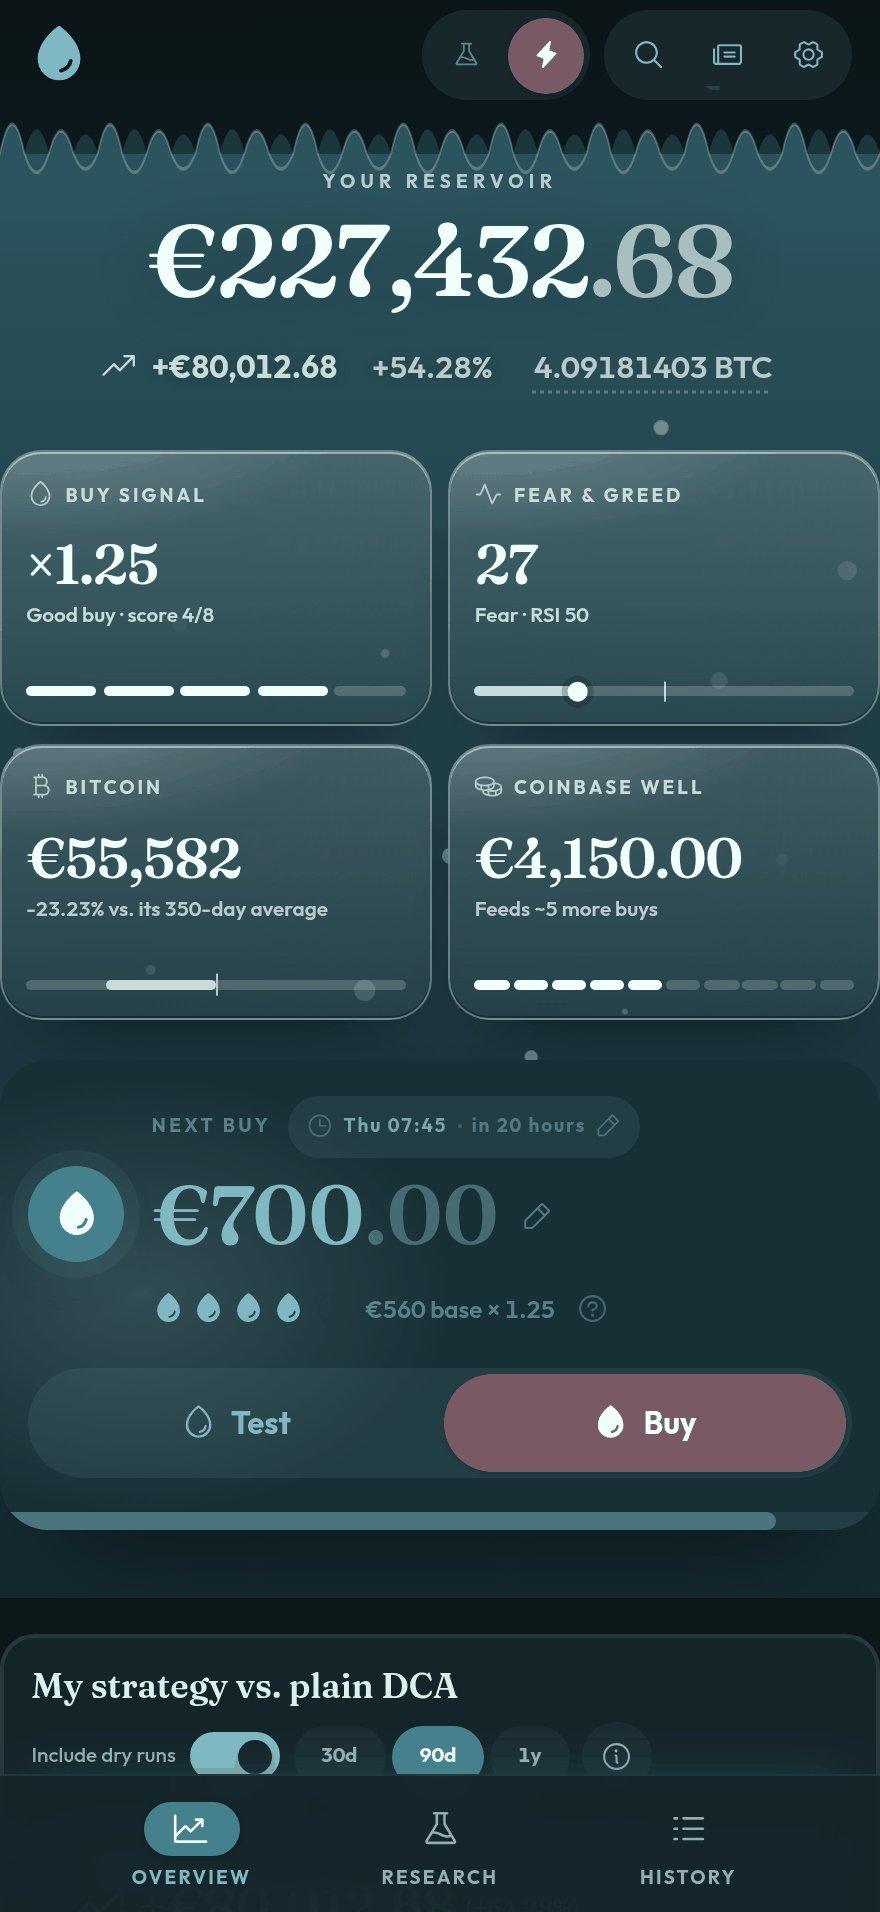
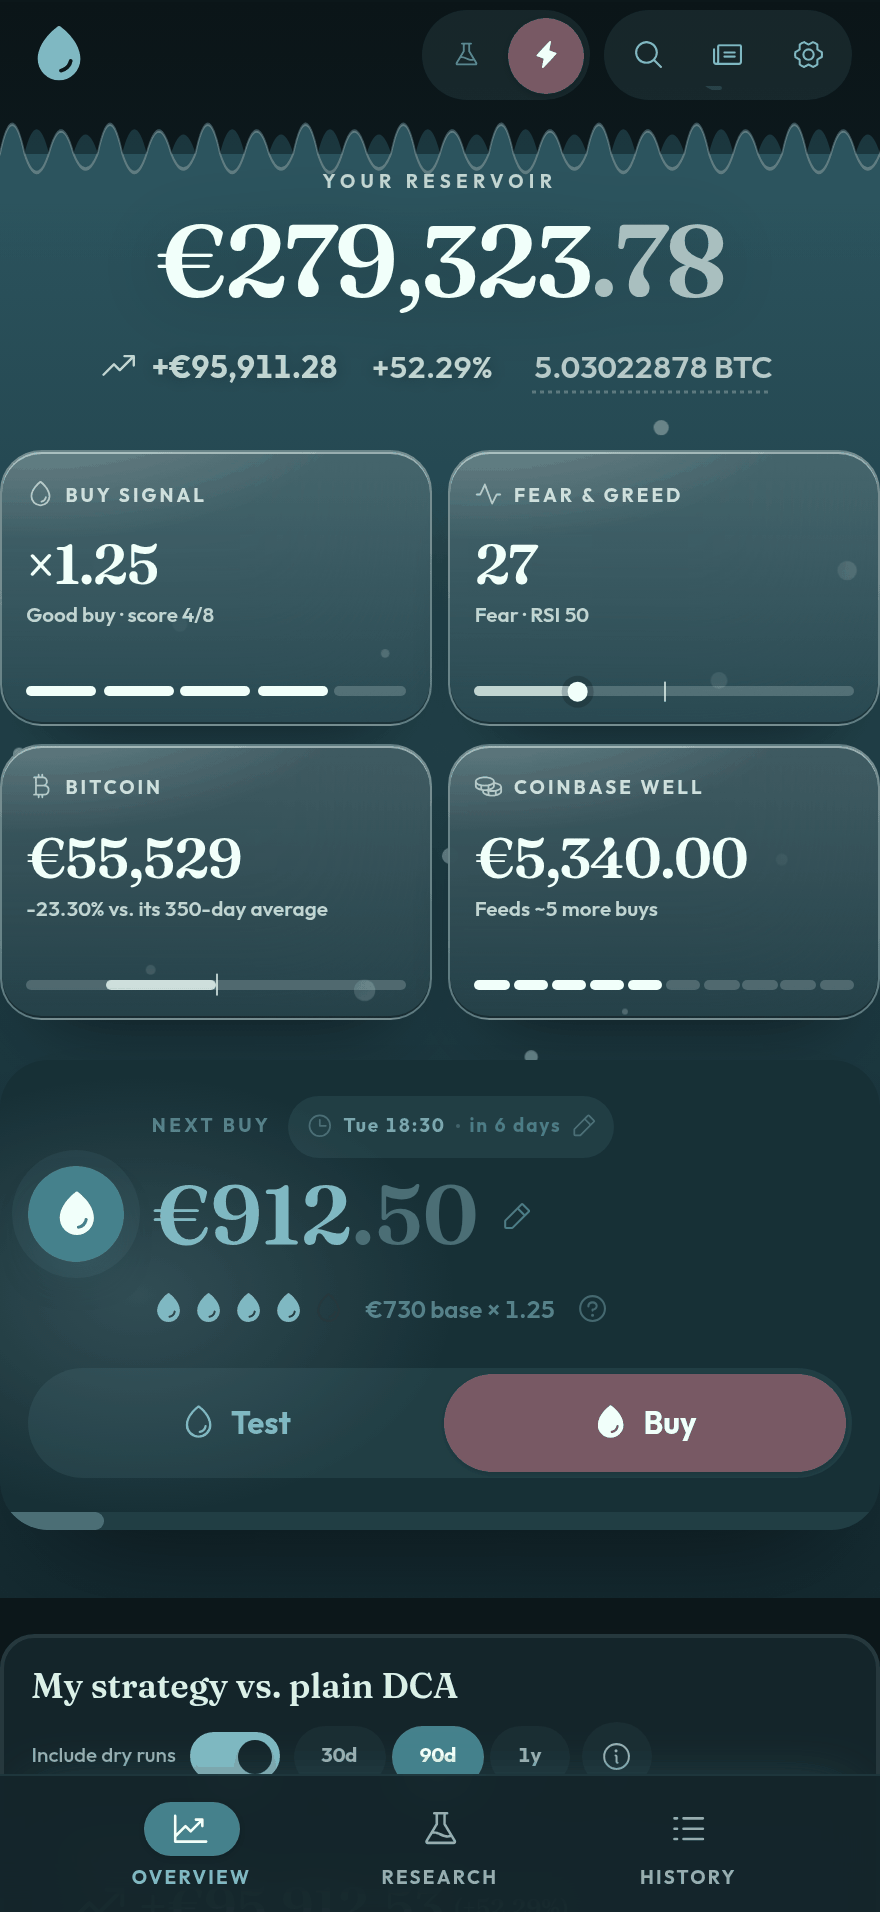
upd: three phones in the readme

diff --git a/frontend/src/version.ts b/frontend/src/version.ts
@@ -17,6 +17,14 @@ export interface Release {
 
 export const CHANGELOG: Release[] = [
   {
+    version: "2.21",
+    date: "2026-08-05",
+    changes: [
+      "The README shows Drip on a phone as three screens side by side — the dashboard, the buy history and the wall display — instead of one shot with an empty column beside it",
+      "The tour above them is a list of what you get rather than a paragraph to read",
+    ],
+  },
+  {
     version: "2.20",
     date: "2026-08-05",
     changes: [

diff --git a/README.md b/README.md
@@ -11,27 +11,29 @@ default; live trading is a confirmed opt-in.
 
 *Example history, not a real account. Night theme; there is a day one too.*
 
-Your stack is a tank of water, and it fizzes at the strength of the week's signal. Four
-instruments float on it - the signal, the market's mood, the price and your Coinbase
-well - each with its own scale, so one glance reads all four. Underneath,
-the dashboard researches its own strategy, reports what you paid against the market,
-carries the rate you stack at forward to the next round number of sats, and keeps its
-own attendance record, so a week it never bought in is visible instead of leaving no
-trace. Green in the plus, rose in the minus. The drip is set on the next-buy card: click
-the amount, or the chip with the day and time. Everything else is in the top bar, and
-`Ctrl+K` reaches all of it - keys included - as well as searching the buys
-themselves: `august`, `2026-03`, `30d`, `price>60000`, answered with how much you put in
-and what it bought. Once a week the whole thing arrives on Discord.
+- **Your stack is a tank of water**, and it fizzes at the strength of the week's signal.
+- **Four instruments float on it** - the signal, the market's mood, the price and your
+  Coinbase well - each with its own scale, so one glance reads all four.
+- **Underneath**: the strategy audited against itself, what you paid against the market,
+  the rate you stack at carried to the next round number of sats, and a record of the
+  weeks the drip actually landed in. Green in the plus, rose in the minus.
+- **The drip is set where it is read** - click the amount, or the chip with the day and
+  time. Everything else is in the top bar.
+- **`Ctrl+K` reaches all of it**, keys included, and searches the buys themselves:
+  `august`, `2026-03`, `30d`, `price>60000`, answered with how much you put in and what
+  it bought.
 
 ## On a phone
 
-<img src="docs/screenshot-phone.png" alt="Drip on a phone" width="290" align="right">
+<p align="center">
+  <img src="docs/screenshot-phone.png" alt="The dashboard on a phone" width="31%">
+  <img src="docs/screenshot-phone-history.png" alt="The buy history on a phone" width="31%">
+  <img src="docs/screenshot-phone-search.png" alt="Searching the buys on a phone" width="31%">
+</p>
 
-The same dashboard, sized for a thumb: the sections move to a tab bar along the bottom,
-every figure is set larger rather than smaller, dialogs rise as sheets, and the buy
-history becomes one card per buy. One build, and the layout follows the glass.
-
-<br clear="right">
+*One build, both hands: the sections move to a tab bar along the bottom, figures are set
+larger rather than smaller, the buy history becomes one card per buy, and dialogs rise
+as sheets.*
 
 ## Install
 
@@ -70,17 +72,16 @@ your base amount.
 |---|---|---|---|---|---|
 | **Buy** | 1.5x | 1.25x | 1.0x | 0.75x | 0.5x |
 
-The dashboard shows this sum for the next buy: tap the drops under the amount.
+Tap the drops under the next buy to see the sum.
 
 ## Weekly report
 
-A single buy says nothing about whether the saving is going anywhere, so once a week
-Drip reports itself to Discord: what you stacked, what the price did, how you stand
-against plain DCA and against the market's own average, which weeks it bought in, and
-what the signal says now. A run that falls over says so at the time.
+Once a week Drip reports itself to Discord: what you stacked, what the price did, how
+you stand against plain DCA and against the market's own average, which weeks it bought
+in, and what the signal says now. A run that falls over says so at the time.
 
-Thirteen sections, each switchable. The preview is built by the code that builds the
-real message, so it is exactly what arrives.
+Thirteen sections, each switchable; the preview is built by the code that builds the
+real message.
 
 ![The weekly report editor](docs/screenshot-weekly-report.png)
 
@@ -88,9 +89,8 @@ Needs a Discord webhook. Everything else works without one.
 
 ## Environment
 
-Secrets go in under **Setup** in the dashboard, which stores them in Drip's own
-database, or in `backend/.env`; the dashboard wins. Without Coinbase keys everything
-still works in dry-run mode.
+Secrets go in under **Setup** in the dashboard, or in `backend/.env`; the dashboard
+wins. Without Coinbase keys everything still works in dry-run mode.
 
 | Variable | Required | Description |
 |---|---|---|
